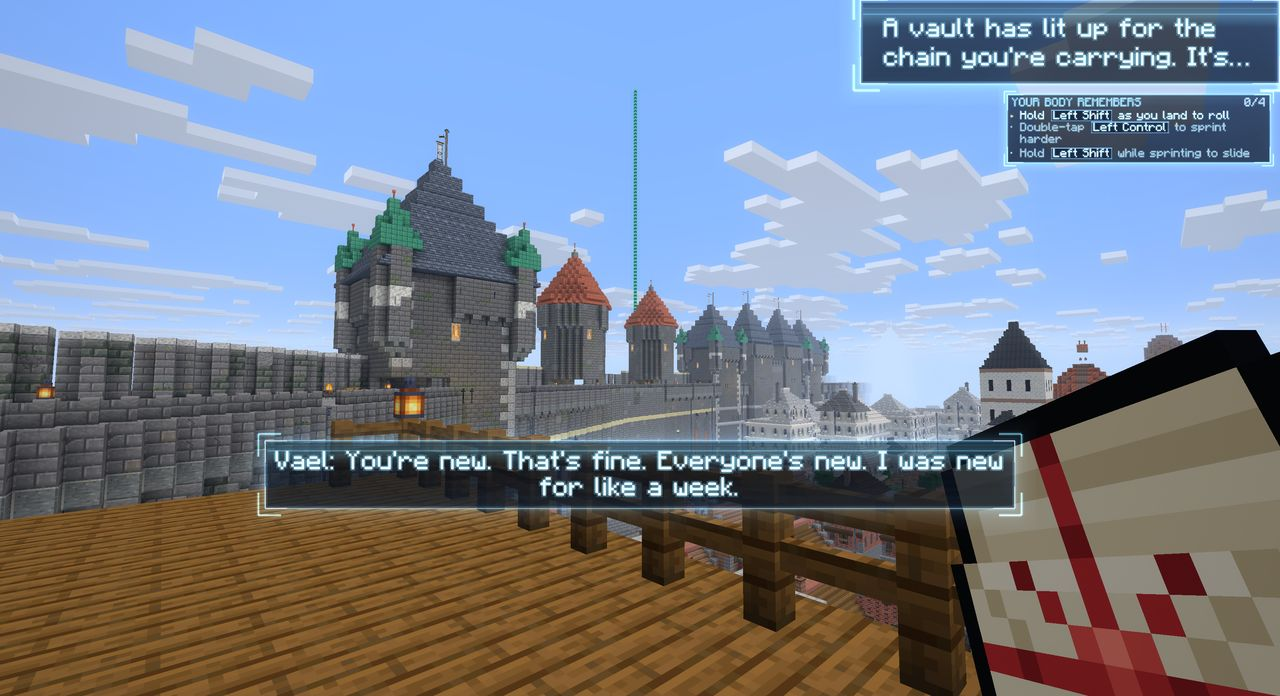
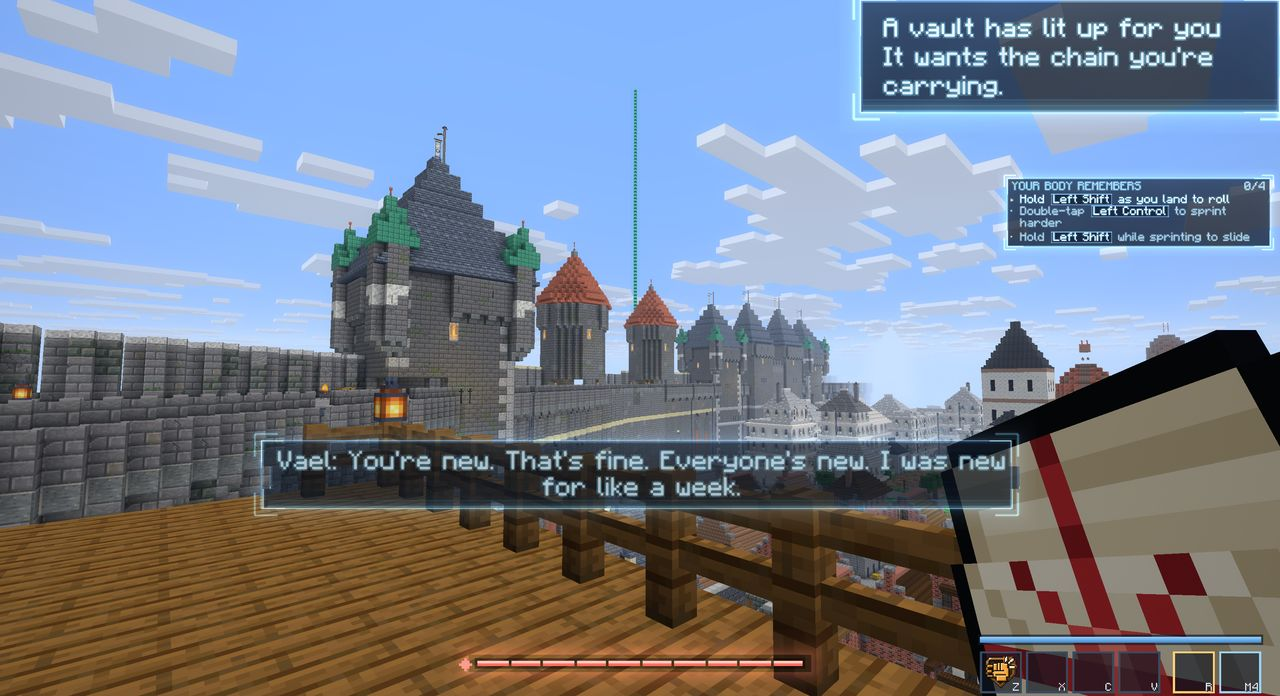
The Way Up: the page with the fourth tour's pictures (the reveal's panel, the beam, the wings' gift), version 6.

diff --git a/docs/movement-unlocks/page.html b/docs/movement-unlocks/page.html
@@ -261,7 +261,7 @@ textarea{font:400 14px/1.5 var(--body);width:100%;padding:8px 10px;border-radius
         </dl>
       </div>
       <div class="side next"><span class="eyebrow">Built</span>
-        <figure><img src="shots/built_rope.jpg" alt="Built: the vault&#x27;s mast. Your own key, with &quot;Throw it at the mast&quot;, sits on the mast until you throw the rope yourself." loading="lazy"><figcaption><b>Built: the vault's mast.</b> Your own key, with "Throw it at the mast", sits on the mast until you throw the rope yourself.</figcaption></figure>
+        <figure><img src="shots/built_rope.jpg" alt="Built: the vault&#x27;s mast. Your own key, with &quot;Throw it at the mast&quot;, sits on the mast until you throw the rope yourself. The rope&#x27;s title now sits below the vault&#x27;s discovery card." loading="lazy"><figcaption><b>Built: the vault's mast.</b> Your own key, with "Throw it at the mast", sits on the mast until you throw the rope yourself. The rope's title now sits below the vault's discovery card.</figcaption></figure>
         <ol class="steps">
           <li><b>Opened</b><span>The Ringer falls. Its chain is at your feet, as now. It is cold iron until a vault wakes it.</span></li>
           <li><b>A place</b><span>Twenty seconds after you are home: "A vault has lit up for the chain you're carrying. It's 310 blocks east of here." One you have already found, if it is near. Any vault will do.</span></li>
@@ -269,7 +269,7 @@ textarea{font:400 14px/1.5 var(--body);width:100%;padding:8px 10px;border-radius
         </ol>
       </div>
     </div>
-    <div class="strip"><figure><img src="shots/built_beam.jpg" alt="Built: a vault lights up. The thin green line over the roofs is its beam, 450 blocks away. The message was still a toast here and its last words were cut; it is now a panel that shows all of them." loading="lazy"><figcaption><b>Built: a vault lights up.</b> The thin green line over the roofs is its beam, 450 blocks away. The message was still a toast here and its last words were cut; it is now a panel that shows all of them.</figcaption></figure><figure><img src="shots/built_rope_card.jpg" alt="Built: the rope thrown by hand. The prompt has gone and the rope&#x27;s card of keys shows for four seconds." loading="lazy"><figcaption><b>Built: the rope thrown by hand.</b> The prompt has gone and the rope's card of keys shows for four seconds.</figcaption></figure><figure><img src="shots/vow_a.jpg" alt="Before: the vault&#x27;s rope scene, out of reach in a new world. The rope has just pulled the player up the pylon. Its words, &quot;The line is yours&quot;, are drawn underneath the vault&#x27;s own discovery card. The tour forced the two together; the scene itself holds nothing back." loading="lazy"><figcaption><b>Before: the vault's rope scene, out of reach in a new world.</b> The rope has just pulled the player up the pylon. Its words, "The line is yours", are drawn underneath the vault's own discovery card. The tour forced the two together; the scene itself holds nothing back.</figcaption></figure><figure><img src="shots/vow_b.jpg" alt="Before: then it asked you to use it, &quot;Reach the beacon mast&quot;, with a ring of light on the mast at the left." loading="lazy"><figcaption><b>Before: then it asked you to use it,</b> "Reach the beacon mast", with a ring of light on the mast at the left.</figcaption></figure><figure><img src="shots/tasks_vow.jpg" alt="Before: the Tasks page at D-rank, rope in hand. The card at the bottom right, &quot;Keep the Tether Vow&quot;, can never be done in a new world: the vow only starts for someone without the rope." loading="lazy"><figcaption><b>Before: the Tasks page at D-rank, rope in hand.</b> The card at the bottom right, "Keep the Tether Vow", can never be done in a new world: the vow only starts for someone without the rope.</figcaption></figure></div>
+    <div class="strip"><figure><img src="shots/built_beam.jpg" alt="Built: a vault lights up. The thin green line over the roofs is its beam, 450 blocks away. The panel at the top is still typing: it ends &quot;It&#x27;s 450 blocks north-east of here.&quot;" loading="lazy"><figcaption><b>Built: a vault lights up.</b> The thin green line over the roofs is its beam, 450 blocks away. The panel at the top is still typing: it ends "It's 450 blocks north-east of here."</figcaption></figure><figure><img src="shots/built_rope_card.jpg" alt="Built: the rope thrown by hand. The prompt has gone and the rope&#x27;s card of keys shows for four seconds." loading="lazy"><figcaption><b>Built: the rope thrown by hand.</b> The prompt has gone and the rope's card of keys shows for four seconds.</figcaption></figure><figure><img src="shots/vow_a.jpg" alt="Before: the vault&#x27;s rope scene, out of reach in a new world. The rope has just pulled the player up the pylon. Its words, &quot;The line is yours&quot;, are drawn underneath the vault&#x27;s own discovery card. The tour forced the two together; the scene itself holds nothing back." loading="lazy"><figcaption><b>Before: the vault's rope scene, out of reach in a new world.</b> The rope has just pulled the player up the pylon. Its words, "The line is yours", are drawn underneath the vault's own discovery card. The tour forced the two together; the scene itself holds nothing back.</figcaption></figure><figure><img src="shots/vow_b.jpg" alt="Before: then it asked you to use it, &quot;Reach the beacon mast&quot;, with a ring of light on the mast at the left." loading="lazy"><figcaption><b>Before: then it asked you to use it,</b> "Reach the beacon mast", with a ring of light on the mast at the left.</figcaption></figure><figure><img src="shots/tasks_vow.jpg" alt="Before: the Tasks page at D-rank, rope in hand. The card at the bottom right, &quot;Keep the Tether Vow&quot;, can never be done in a new world: the vow only starts for someone without the rope." loading="lazy"><figcaption><b>Before: the Tasks page at D-rank, rope in hand.</b> The card at the bottom right, "Keep the Tether Vow", can never be done in a new world: the vow only starts for someone without the rope.</figcaption></figure></div>
   </div>
 
   <div class="rung" id="leap">
@@ -315,7 +315,7 @@ textarea{font:400 14px/1.5 var(--body);width:100%;padding:8px 10px;border-radius
         </ol>
       </div>
     </div>
-    <div class="strip"><figure><img src="shots/built_wings_open.jpg" alt="Built: wings open on the second press, and the Wings card shows." loading="lazy"><figcaption><b>Built: wings open on the second press,</b> and the Wings card shows.</figcaption></figure><figure><img src="shots/wings_after.jpg" alt="Before: four seconds after the gift. The scene is over and you are standing in the cabin, high in the sky, with wings you have never opened." loading="lazy"><figcaption><b>Before: four seconds after the gift.</b> The scene is over and you are standing in the cabin, high in the sky, with wings you have never opened.</figcaption></figure><figure><img src="shots/wings_k.jpg" alt="Before: the K menu at C-rank with wings. The next row still says the sky &quot;calls you to a trial&quot;. That trial can no longer be reached." loading="lazy"><figcaption><b>Before: the K menu at C-rank with wings.</b> The next row still says the sky "calls you to a trial". That trial can no longer be reached.</figcaption></figure><figure><img src="shots/sky_gift.jpg" alt="Before: the Sky Warden falls. &quot;The sky is yours.&quot; and four moves in one line of text." loading="lazy"><figcaption><b>Before: the Sky Warden falls.</b> "The sky is yours." and four moves in one line of text.</figcaption></figure></div>
+    <div class="strip"><figure><img src="shots/built_sky_told.jpg" alt="Built: a sky platform lights up. Where it is, and how you climb it." loading="lazy"><figcaption><b>Built: a sky platform lights up.</b> Where it is, and how you climb it.</figcaption></figure><figure><img src="shots/built_wings_gift.jpg" alt="Built: the core&#x27;s gift, one plain sentence." loading="lazy"><figcaption><b>Built: the core's gift,</b> one plain sentence.</figcaption></figure><figure><img src="shots/built_wings_open.jpg" alt="Built: wings open on the second press, and the Wings card shows." loading="lazy"><figcaption><b>Built: wings open on the second press,</b> and the Wings card shows.</figcaption></figure><figure><img src="shots/wings_after.jpg" alt="Before: four seconds after the gift. The scene is over and you are standing in the cabin, high in the sky, with wings you have never opened." loading="lazy"><figcaption><b>Before: four seconds after the gift.</b> The scene is over and you are standing in the cabin, high in the sky, with wings you have never opened.</figcaption></figure><figure><img src="shots/wings_k.jpg" alt="Before: the K menu at C-rank with wings. The next row still says the sky &quot;calls you to a trial&quot;. That trial can no longer be reached." loading="lazy"><figcaption><b>Before: the K menu at C-rank with wings.</b> The next row still says the sky "calls you to a trial". That trial can no longer be reached.</figcaption></figure><figure><img src="shots/sky_gift.jpg" alt="Before: the Sky Warden falls. &quot;The sky is yours.&quot; and four moves in one line of text." loading="lazy"><figcaption><b>Before: the Sky Warden falls.</b> "The sky is yours." and four moves in one line of text.</figcaption></figure></div>
   </div>
 
   <div class="rung" id="flight">

diff --git a/docs/movement-unlocks/shots.py b/docs/movement-unlocks/shots.py
@@ -15,12 +15,15 @@ TOURS = {
     "w1": "run-autopilot/screenshots-ci/way-up-42864057722",
     "w2": "run-autopilot/screenshots-ci/way-up-42868121143",
     "w3": "run-autopilot/screenshots-ci/way-up-42874946585",
+    "w4": "run-autopilot/screenshots-ci/way-up-42879026051",
 }
 # page picture -> (tour, shot, crop as fractions (x0, y0, x1, y1) or None)
 CUTS = {
-    "built_rope": ("w3", "way_vow_08", None),
+    "built_rope": ("w4", "way_vow_08", None),
+    "built_sky_told": ("w4", "way_13_sky_told", None),
+    "built_wings_gift": ("w4", "way_sky_01", None),
     "built_rope_card": ("w2", "way_vow_13_card", None),
-    "built_beam": ("w3", "way_01_vault_told", None),
+    "built_beam": ("w4", "way_01_vault_told", None),
     "built_leap": ("w3", "way_10_leap_figure", None),
     "built_leap_card": ("w1", "way_12_leap_card", None),
     "built_wings": ("w2", "way_sky_10_pier_first_person", None),
@@ -45,7 +48,7 @@ CUTS = {
 }
 # @@FIG:key@@ -> (picture, caption)
 FIGS = {
-    "built_rope": ("built_rope", "<b>Built: the vault's mast.</b> Your own key, with \"Throw it at the mast\", sits on the mast until you throw the rope yourself."),
+    "built_rope": ("built_rope", "<b>Built: the vault's mast.</b> Your own key, with \"Throw it at the mast\", sits on the mast until you throw the rope yourself. The rope's title now sits below the vault's discovery card."),
     "built_leap": ("built_leap", "<b>Built: the leap's moment.</b> One plain sentence, and your key under the crosshair until you press it in the air."),
     "built_wings": ("built_wings", "<b>Built: the first flight.</b> A line of rings off the pier, and your key on the way out."),
     "built_sky": ("built_sky", "<b>Built: flight's keys as a strip</b> at the top of the screen, out of the fight's way. (Shown here outside the fight, by a tour command.)"),
@@ -61,13 +64,15 @@ FIGS = {
 # @@FIG:key@@ -> [(picture, caption), ...] as a row of three
 STRIPS = {
     "vow_strip": [
-        ("built_beam", "<b>Built: a vault lights up.</b> The thin green line over the roofs is its beam, 450 blocks away. The message was still a toast here and its last words were cut; it is now a panel that shows all of them."),
+        ("built_beam", "<b>Built: a vault lights up.</b> The thin green line over the roofs is its beam, 450 blocks away. The panel at the top is still typing: it ends \"It's 450 blocks north-east of here.\""),
         ("built_rope_card", "<b>Built: the rope thrown by hand.</b> The prompt has gone and the rope's card of keys shows for four seconds."),
         ("vow_a", "<b>Before: the vault's rope scene, out of reach in a new world.</b> The rope has just pulled the player up the pylon. Its words, \"The line is yours\", are drawn underneath the vault's own discovery card. The tour forced the two together; the scene itself holds nothing back."),
         ("vow_b", "<b>Before: then it asked you to use it,</b> \"Reach the beacon mast\", with a ring of light on the mast at the left."),
         ("tasks_vow", "<b>Before: the Tasks page at D-rank, rope in hand.</b> The card at the bottom right, \"Keep the Tether Vow\", can never be done in a new world: the vow only starts for someone without the rope."),
     ],
     "wings_strip": [
+        ("built_sky_told", "<b>Built: a sky platform lights up.</b> Where it is, and how you climb it."),
+        ("built_wings_gift", "<b>Built: the core's gift,</b> one plain sentence."),
         ("built_wings_open", "<b>Built: wings open on the second press,</b> and the Wings card shows."),
         ("wings_after", "<b>Before: four seconds after the gift.</b> The scene is over and you are standing in the cabin, high in the sky, with wings you have never opened."),
         ("wings_k", "<b>Before: the K menu at C-rank with wings.</b> The next row still says the sky \"calls you to a trial\". That trial can no longer be reached."),
